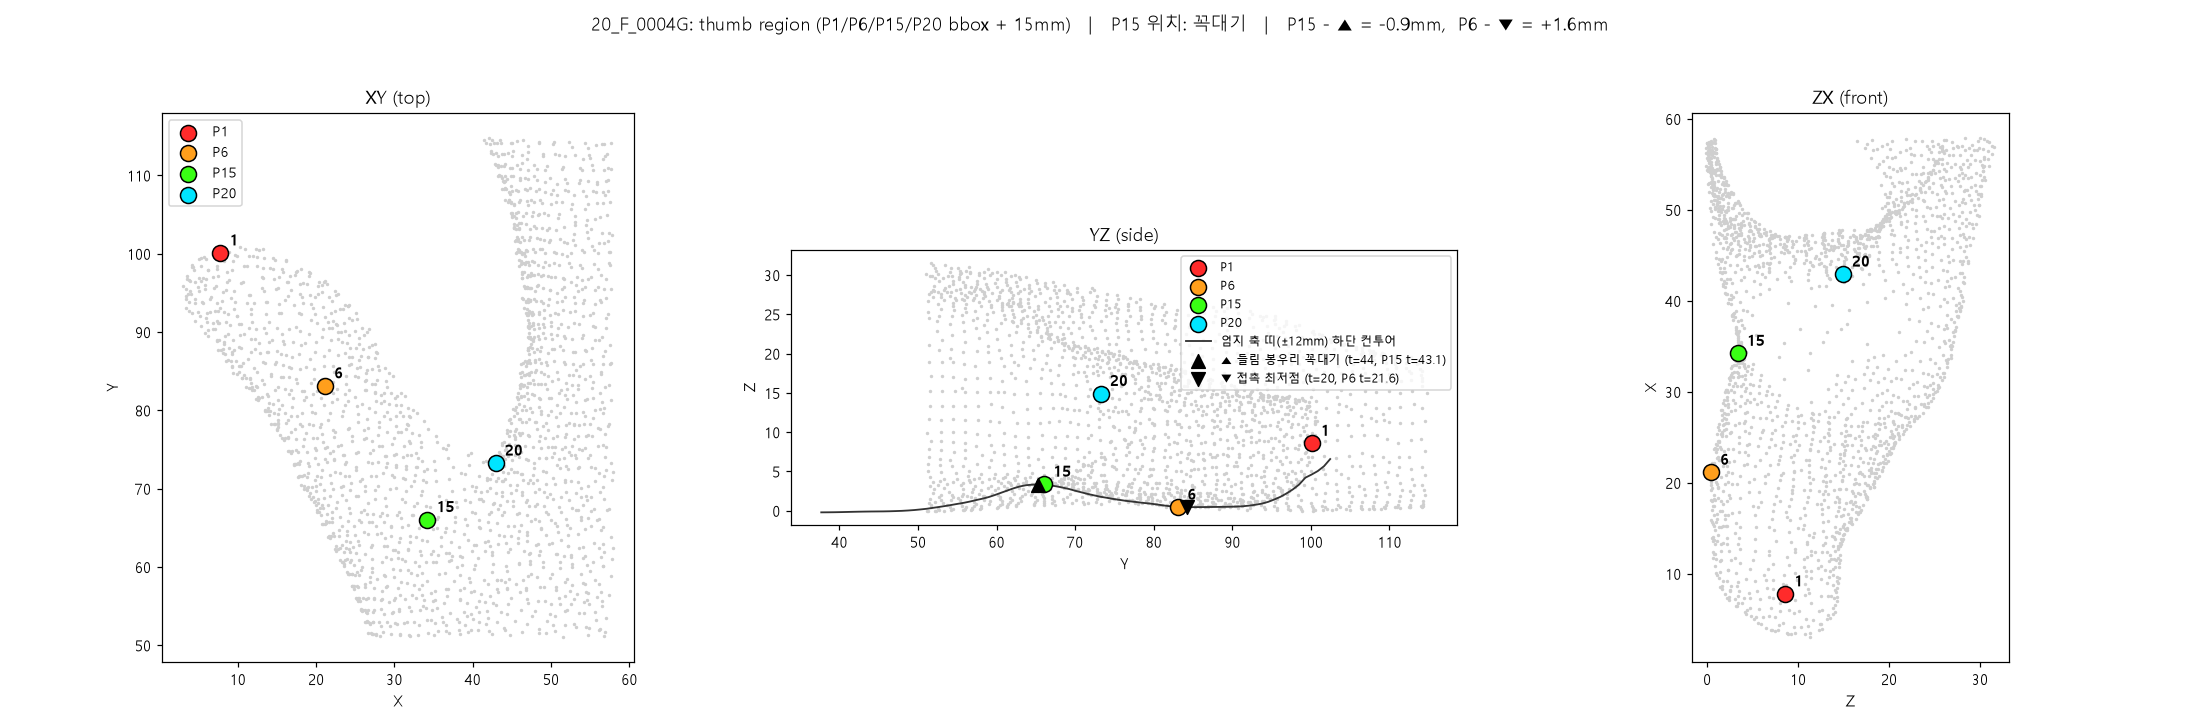
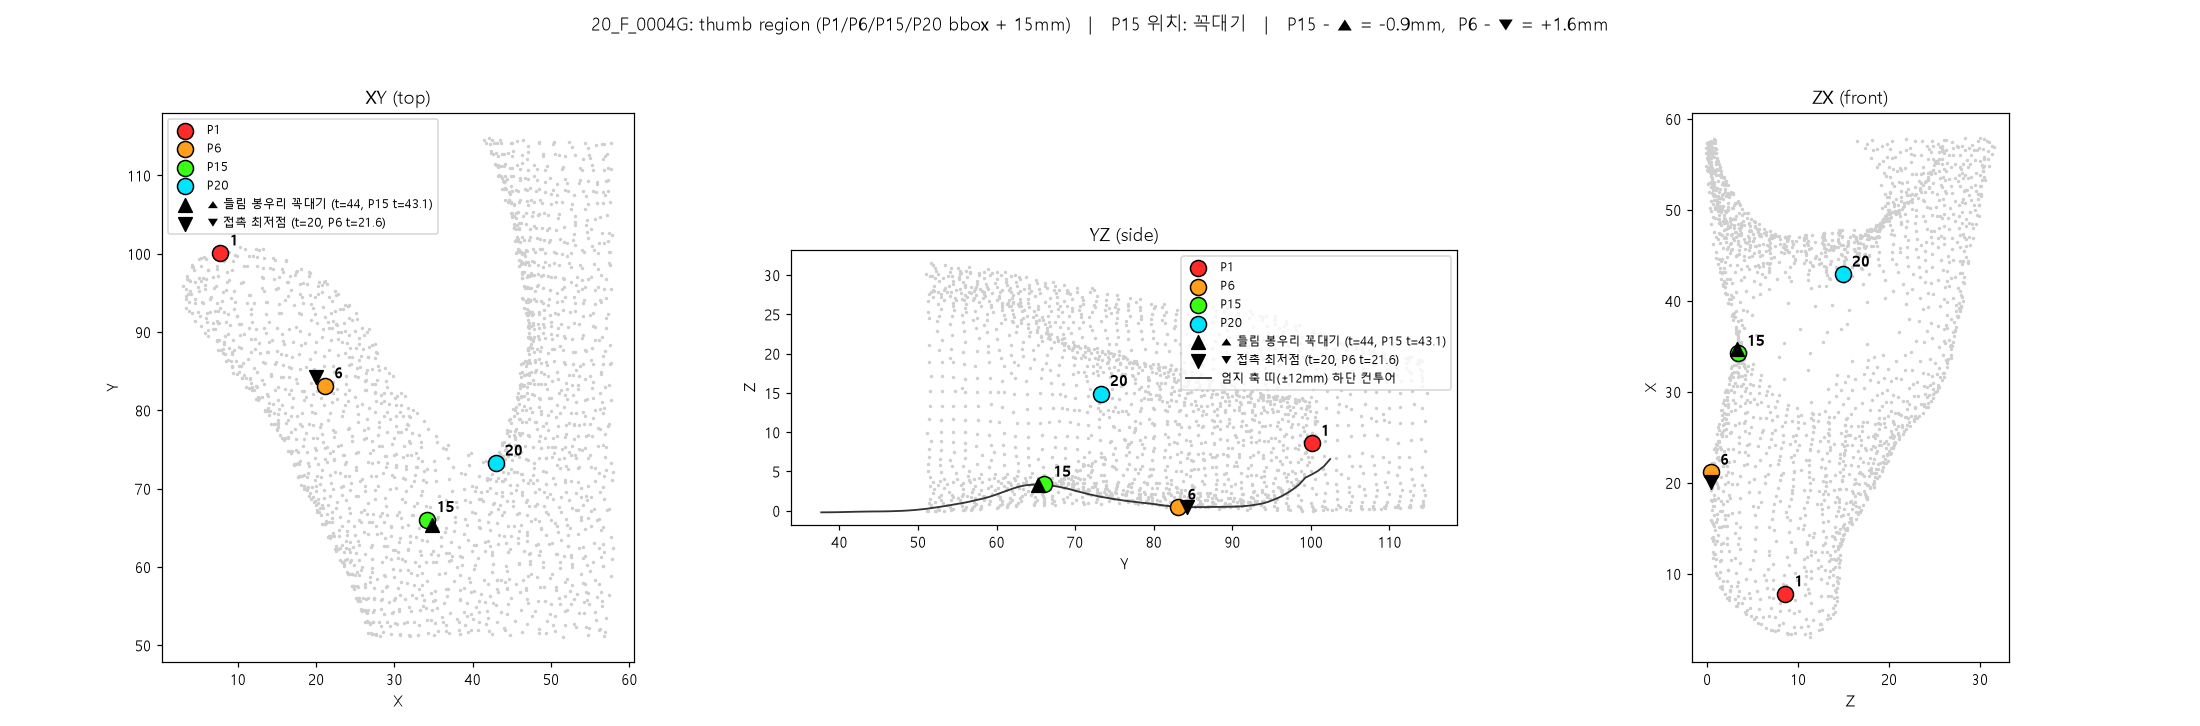
P15 from P20 foot with an angular window (85-95 deg): views and numbers; extrema in all three views
- p15_foot_window_views.py: per-hand 3-view plots of the P15 estimate =
  highest band-contour point among axis stations reached from P20 at
  85-95 deg (perpendicular foot +/- ~1.1 mm); true axis and P20, so it is
  the rule's ceiling: +0.3 +/- 2.1 mm, max 3.8, 4/15 within 1 mm
- thumb_views.py: peak and contact-minimum markers now drawn in the XY
  and ZX views as well (band +/-12 mm)
- readme: angle-window sweep (90 / 88-92 / 85-95 / 82-98 / 80-100 /
  75-105), P20+contour combinations, band/slab invariance, lane analysis

Changed region(s): [[0.0618, 0.1515, 0.1855, 0.3333], [0.5255, 0.4545, 0.6491, 0.5455]]

diff --git a/thumb_model/p15_foot_window_views.py b/thumb_model/p15_foot_window_views.py
@@ -1,0 +1,105 @@
+"""Per-hand views of the "P20 foot +/- window" P15 estimate: the highest point of
+the palmar band contour among axis stations reached from P20 at 85-95 degrees
+(= perpendicular foot +/- ~1.1 mm). Uses the SW's own thumb axis and P20, so
+this shows the rule's ceiling, not a mesh-only prediction.
+
+Output: thumb_model/report/p15_foot85_95/<name>.png
+"""
+import glob
+import os
+import sys
+
+import numpy as np
+
+HERE = os.path.dirname(os.path.abspath(__file__))
+sys.path.insert(0, os.path.dirname(HERE))
+sys.path.insert(0, HERE)
+from align_landmarks import OUT_DIR as ALIGNED_DIR, OBJ_DIR, read_obj, sample_surface  # noqa: E402
+from thumb_views import BAND, MARGIN, MARKS, lower_contour  # noqa: E402
+
+OUT = os.path.join(HERE, "report", "p15_foot85_95")
+ANGLES = (85.0, 95.0)
+
+
+def foot_window_estimate(ts, zs, u, p1, p20, angles=ANGLES):
+    """Axis station of the highest contour point among stations hit from P20
+    at angles in `angles` (deg, measured from the axis). Returns (t_est, z_est, t_foot, window)."""
+    lat = np.array([-u[1], u[0]])
+    rel = p20[:2] - p1[:2]
+    t20, w20 = rel @ u, abs(rel @ lat)
+    th = np.radians(np.linspace(angles[0], angles[1], 201))
+    tt = t20 + w20 / np.tan(th)
+    lo, hi = tt.min(), tt.max()
+    seg = np.where((ts >= lo - 0.5) & (ts <= hi + 0.5) & ~np.isnan(zs))[0]
+    i = seg[np.argmax(zs[seg])]
+    return ts[i], zs[i], t20, (lo, hi)
+
+
+def main():
+    import matplotlib
+    matplotlib.use("Agg")
+    import matplotlib.pyplot as plt
+    plt.rcParams["font.family"] = "Malgun Gothic"
+    plt.rcParams["axes.unicode_minus"] = False
+    os.makedirs(OUT, exist_ok=True)
+    errs = []
+    for lnd_path in sorted(glob.glob(os.path.join(ALIGNED_DIR, "*_aligned.lnd"))):
+        name = os.path.basename(lnd_path)[:-12]
+        L = np.loadtxt(os.path.join(os.path.dirname(ALIGNED_DIR), "lnd", name + ".lnd"))[:, 1:]
+        T = np.loadtxt(os.path.join(ALIGNED_DIR, f"{name}_transform.txt"), comments="#")
+        Ti = np.linalg.inv(T)
+        V, F, _ = read_obj(os.path.join(OBJ_DIR, name + ".obj"))
+        Vl = (np.c_[V, np.ones(len(V))] @ Ti.T)[:, :3]
+        S = np.vstack([V, sample_surface(V, F)])
+        Sl = (np.c_[S, np.ones(len(S))] @ Ti.T)[:, :3]
+        P = {k: L[k - 1] for k in MARKS}
+        pts = np.array(list(P.values()))
+        lo, hi = pts.min(0) - MARGIN, pts.max(0) + MARGIN
+        crop = Vl[(Vl[:, 0] > lo[0]) & (Vl[:, 0] < hi[0]) & (Vl[:, 1] > lo[1]) & (Vl[:, 1] < hi[1])]
+        ts, zs, u = lower_contour(Sl, P[1], P[15])
+        t_est, z_est, t20, (wlo, whi) = foot_window_estimate(ts, zs, u, P[1], P[20])
+        t15 = (P[15][:2] - P[1][:2]) @ u
+        est3 = np.array([*(P[1][:2] + t_est * u), z_est])
+        foot3 = np.array([*(P[1][:2] + t20 * u), zs[np.argmin(np.abs(ts - t20))]])
+        win = np.array([[*(P[1][:2] + w * u), zs[np.argmin(np.abs(ts - w))]] for w in (wlo, whi)])
+        err = t15 - t_est
+        errs.append(err)
+
+        fig, axes = plt.subplots(1, 3, figsize=(20, 6.6))
+        views = [("XY (top)", 0, 1, "X", "Y"), ("YZ (side)", 1, 2, "Y", "Z"), ("ZX (front)", 2, 0, "Z", "X")]
+        for ax, (title, a, b, la, lb) in zip(axes, views):
+            ax.scatter(crop[:, a], crop[:, b], s=1.5, color="#cfcfcf", zorder=1)
+            # axis line P1 -> P15 extended
+            seg = np.array([P[1][:2] - 5 * u, P[1][:2] + 75 * u])
+            seg3 = np.c_[seg, np.zeros(2)]
+            if a != 2 and b != 2:
+                ax.plot(seg3[:, a], seg3[:, b], color="#777", lw=0.8, zorder=2, label="엄지 축 (P1→P15)")
+            # perpendicular from P20 to its foot
+            ax.plot([P[20][a], foot3[a]], [P[20][b], foot3[b]], color="#00b8d4", lw=1.0, ls="--", zorder=3, label="P20 → 축 수선")
+            ax.plot(win[:, a], win[:, b], color="#d81b60", lw=4, alpha=0.6, zorder=3, label=f"85~95° 창 (발 ±{(whi - wlo) / 2:.1f}mm)")
+            for k, col in MARKS.items():
+                ax.scatter(P[k][a], P[k][b], s=110, color=col, edgecolor="k", zorder=4)
+                ax.annotate(str(k), (P[k][a], P[k][b]), xytext=(6, 5), textcoords="offset points", fontsize=10, fontweight="bold", zorder=5)
+            ax.scatter(foot3[a], foot3[b], marker="x", s=90, color="#00838f", zorder=6, linewidths=2, label=f"× 수직 발 (t={t20:.1f})")
+            ax.scatter(est3[a], est3[b], marker="*", s=260, color="#d81b60", edgecolor="k", zorder=7, label=f"★ 추정 P15 (t={t_est:.0f}), 정답 P15 t={t15:.1f}")
+            ax.set_title(title)
+            ax.set_xlabel(la)
+            ax.set_ylabel(lb)
+            ax.set_aspect("equal")
+        ok = ~np.isnan(zs)
+        axes[1].plot(P[1][1] + ts[ok] * u[1], zs[ok], color="#333333", lw=1.2, zorder=3, label=f"엄지 축 띠(±{BAND:.0f}mm) 하단 컨투어")
+        axes[0].legend(loc="upper left", fontsize=8)
+        axes[1].legend(loc="upper right", fontsize=8)
+        fig.suptitle(f"{name}: P15 추정 = P20 수직 발 85~95° 창 안의 컨투어 최고점   |   정답 P15 - 추정 = {err:+.1f}mm (축 방향)   "
+                     f"|   정답 축·정답 P20 사용 (규칙의 상한)", fontsize=12)
+        fig.tight_layout(rect=(0, 0, 1, 0.95))
+        fig.savefig(os.path.join(OUT, f"{name}.png"), dpi=110)
+        plt.close(fig)
+        print(f"{name}: foot t={t20:.1f} window [{wlo:.1f},{whi:.1f}] est t={t_est:.0f}  P15 t={t15:.1f}  err {err:+.1f}")
+    e = np.array(errs)
+    print(f"\n15 hands: mean {e.mean():+.2f} sd {e.std():.2f} max|.| {np.abs(e).max():.2f}  <=1mm {(np.abs(e) <= 1).sum()}/15  <=2mm {(np.abs(e) <= 2).sum()}/15")
+    print("wrote", OUT)
+
+
+if __name__ == "__main__":
+    main()

diff --git a/thumb_model/thumb_views.py b/thumb_model/thumb_views.py
@@ -89,6 +89,9 @@ def main():
         t15 = (P[15][:2] - P[1][:2]) @ u
         t6 = (P[6][:2] - P[1][:2]) @ u
         label = group_label(t15, tp, zp)
+        # the two extrema as 3D points: on the axis line in xy, at the contour height in z
+        peak3 = np.array([*(P[1][:2] + tp * u), zp])
+        cmin3 = np.array([*(P[1][:2] + tm * u), zm])
 
         fig, axes = plt.subplots(1, 3, figsize=(20, 6.6))
         views = [("XY (top)", 0, 1, "X", "Y"), ("YZ (side)", 1, 2, "Y", "Z"), ("ZX (front)", 2, 0, "Z", "X")]
@@ -98,6 +101,10 @@ def main():
                 ax.scatter(P[k][a], P[k][b], s=110, color=col, edgecolor="k", zorder=4, label=f"P{k}")
                 ax.annotate(str(k), (P[k][a], P[k][b]), xytext=(6, 5), textcoords="offset points",
                             fontsize=10, fontweight="bold", zorder=5)
+            ax.scatter(peak3[a], peak3[b], marker="^", s=80, color="k", zorder=6,
+                       label=f"▲ 들림 봉우리 꼭대기 (t={tp:.0f}, P15 t={t15:.1f})")
+            ax.scatter(cmin3[a], cmin3[b], marker="v", s=80, color="k", zorder=6,
+                       label=f"▼ 접촉 최저점 (t={tm:.0f}, P6 t={t6:.1f})")
             ax.set_title(title)
             ax.set_xlabel(la)
             ax.set_ylabel(lb)
@@ -107,11 +114,7 @@ def main():
         ok = ~np.isnan(zs)
         ax.plot(P[1][1] + ts[ok] * u[1], zs[ok], color="#333333", lw=1.2, zorder=3,
                 label=f"엄지 축 띠(±{BAND:.0f}mm) 하단 컨투어")
-        ax.scatter([P[1][1] + tp * u[1]], [zp], marker="^", s=80, color="k", zorder=6,
-                   label=f"▲ 들림 봉우리 꼭대기 (t={tp:.0f}, P15 t={t15:.1f})")
-        ax.scatter([P[1][1] + tm * u[1]], [zm], marker="v", s=80, color="k", zorder=6,
-                   label=f"▼ 접촉 최저점 (t={tm:.0f}, P6 t={t6:.1f})")
-        axes[0].legend(loc="upper left", fontsize=9)
+        axes[0].legend(loc="upper left", fontsize=8)
         axes[1].legend(loc="upper right", fontsize=8)
         fig.suptitle(f"{name}: thumb region (P1/P6/P15/P20 bbox + {MARGIN:.0f}mm)   |   P15 위치: {label}   "
                      f"|   P15 - ▲ = {t15 - tp:+.1f}mm,  P6 - ▼ = {t6 - tm:+.1f}mm", fontsize=12)

diff --git a/align2_and_modeling_readme.md b/align2_and_modeling_readme.md
@@ -286,6 +286,8 @@ P15만이 아니라 28개 점 전체를 각 접근이 얼마나 재현하는지 
 
 **극점 사이 거리 vs 엄지 길이(기각)**: ▼(접촉 최저점)→▲(봉우리 꼭대기) xy 거리는 26.5 ± 5.0mm로 엄지 길이(49.5 ± 3.8)의 0.54 ± 0.09배이고 상관 r=0.50. 이 거리로 엄지 길이를 LOO 회귀하면 MAE 3.3mm(P1→▲ 사용 시 2.9) — 학습 모델(2.1)보다 나쁩니다. 첫마디 길이(P6→P15)와도 r=0.37뿐이라 극점 거리는 뼈 길이가 아니라 눌린 방식을 반영하는 양입니다.
 
+**P20과 컨투어를 결합(기각)**: P20을 축에 수직으로 내린 발(특허 규칙) 자체가 최선의 단일 기하 예측자(−0.4 ± 2.4mm)이고, 그 주변 창의 컨투어 최고점(±3mm: +1.1 ± 2.4; 창을 넓히면 봉우리로 수렴 +3.6 ± 3.9), 각도 창 안의 최고점(85~95° = 발 ±1.1mm: **+0.3 ± 2.1, 최대 3.8**; 80~100°: +1.1 ± 2.2; 75~105°: +1.9 ± 2.5)·최저점(80~100°: −1.5 ± 3.2), 발+봉우리+최저점 선형 결합(LOO sd 1.8~2.2) 모두 2mm 아래로 내려가지 않습니다. 85~95° 창이 시험한 기하 규칙 중 가장 좁지만(1mm 이내 4/15, 2mm 이내 8/15) 개선의 실체는 발이 봉우리를 지나친 두 손(1559, 1573)이 창 안에서 당겨진 것이고, 15명으로 창 폭을 고르는 것은 과적합입니다. 사람별 그림: `thumb_model/p15_foot_window_views.py` → `thumb_model/report/p15_foot85_95/`. 발 오차와 봉우리 오차는 상관 0.32로 같은 손(0097, 1114, 2633, 1573)에서 함께 틀립니다. 띠 폭(0.5~12mm)·판 두께(0.75~3mm)에 극점은 1mm 이내로 불변이며, 이는 스테이션마다 최저 z를 취해 항상 축 근처(±4mm) 접촉면이 선택되기 때문입니다(가장자리 차선 ±8mm는 5~11mm 떠 있어 극점 위치가 최대 20mm 다름).
+
 **메쉬 노이즈가 원인인지 확인(아님)**: 봉우리 꼭대기 위치를 평활 폭(1~6mm)·띠 폭(6/8/12mm)·표면 점 50% 무작위 제거(8회)·2차 곡선 맞춤으로 흔들어 본 범위는 평균 1.1mm(최대 3.0)이고, 접촉 최저점의 흔들림은 평균 0.8mm(최대 2.8)입니다. 즉 극점 자체는 약 1mm로 재현되는데 P15·P6와의 차이는 3.6~5.0mm에 사람별 편차 3~4mm이며, 같은 손이 항상 같은 방향으로 벗어납니다(계통적). 노이즈 제거로 얻을 수 있는 개선은 1mm 이하이고 규칙과 SW의 차이는 그대로 남습니다. 시각화: `thumb_model/thumb_views.py` → `thumb_model/report/thumb_views/<이름>.png`(3평면 + 축 띠 컨투어 + 봉우리 표시).
 
 ### 기준값의 성격
